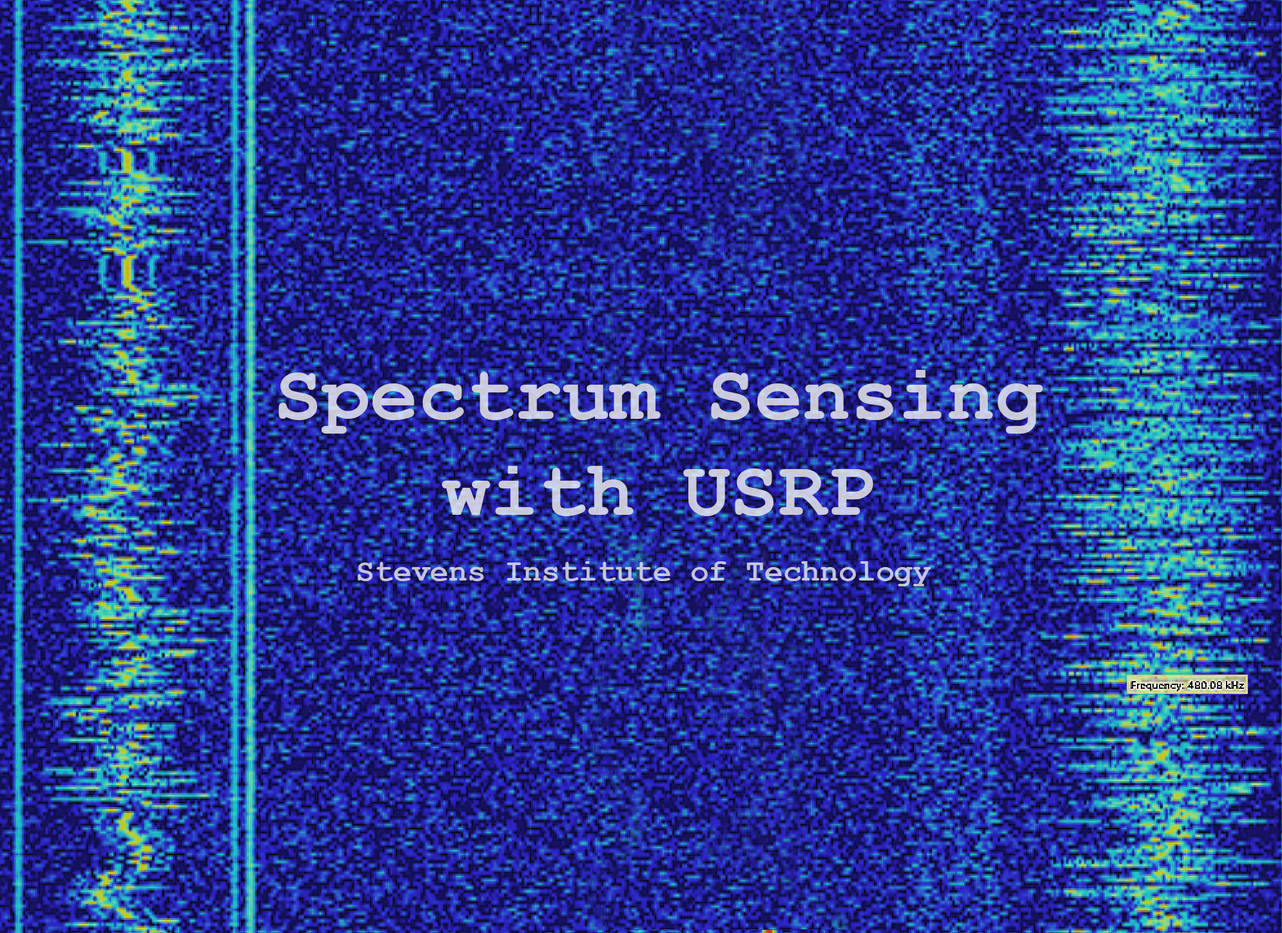
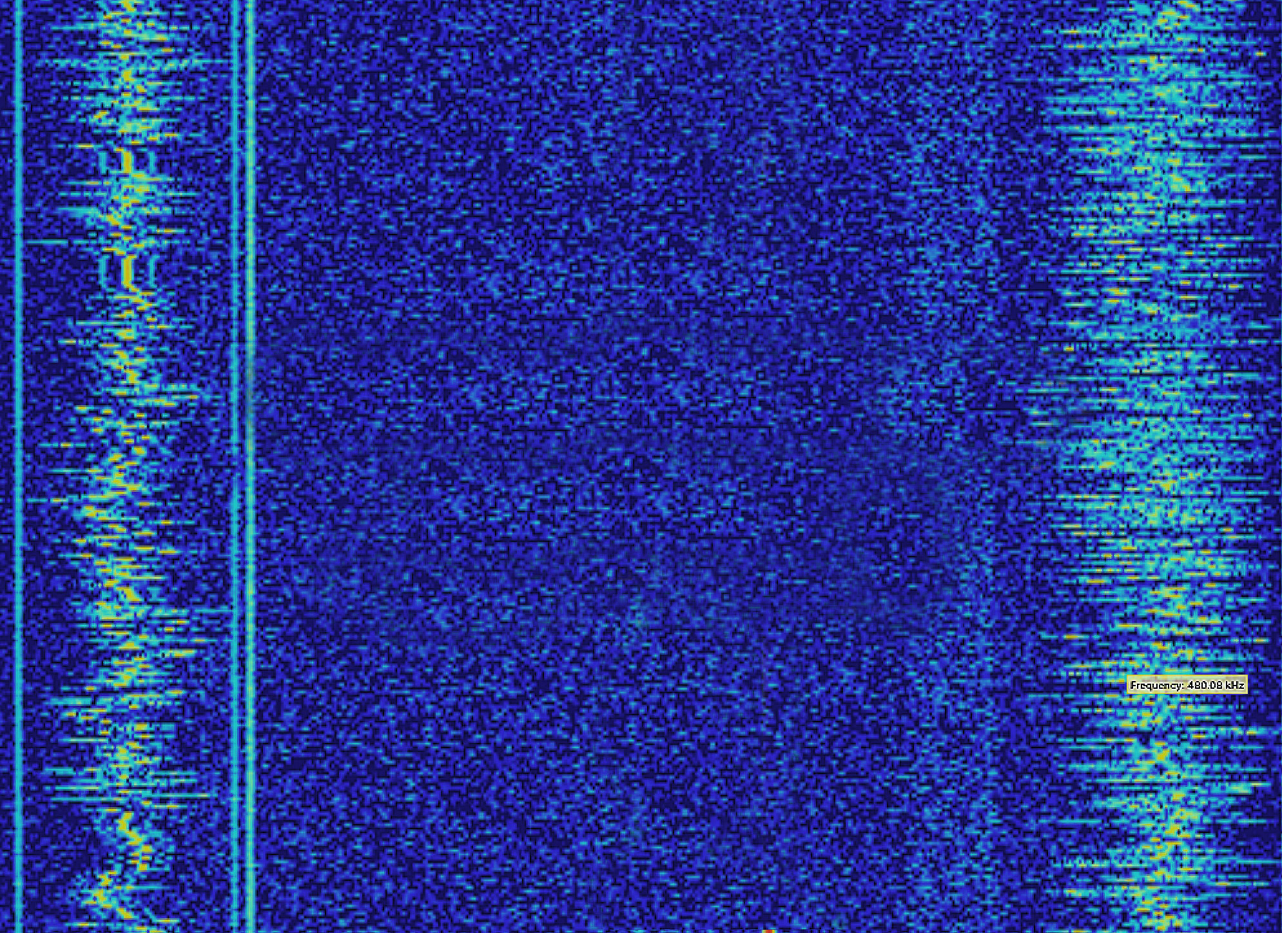
ALIENS.

Changed region(s): [[0.187, 0.3419, 0.8416, 0.7148]]

diff --git a/css/agency.css b/css/agency.css
@@ -246,17 +246,16 @@ header .intro-text {
   padding-bottom: 50px;
 }
 header .intro-text .intro-lead-in {
-  font-family: "Droid Serif", "Helvetica Neue", Helvetica, Arial, sans-serif;
+  font-family: "Ubuntu";
   font-style: italic;
-  font-size: 22px;
+  font-size: 18px;
   line-height: 22px;
   margin-bottom: 25px;
 }
 header .intro-text .intro-heading {
-  font-family: "Montserrat", "Helvetica Neue", Helvetica, Arial, sans-serif;
-  text-transform: uppercase;
+  font-family: "Ubuntu";
   font-weight: 700;
-  font-size: 50px;
+  font-size: 40px;
   line-height: 50px;
   margin-bottom: 25px;
 }

diff --git a/index.html b/index.html
@@ -43,11 +43,16 @@
 </nav>
 
 <!-- Header -->
-<div class='fill-screen'>
-    <img class='make-it-fit' 
-         src="img/header-bg.jpg" alt="Not found">
-</div>
-
+<header>
+  <div class="container">
+    <div class="intro-text">
+        <div class="intro-heading">Spectrum Sensing</div>
+        <div class="intro-heading">with USRP</div>
+        <div class="intro-lead-in">Stevens Institute of Technology</div>
+        <a href="#mission" class="page-scroll btn btn-xl">More Info</a>
+    </div>
+  </div>
+</header>
 
 <!-- Missions Section -->
 <section id="mission">
